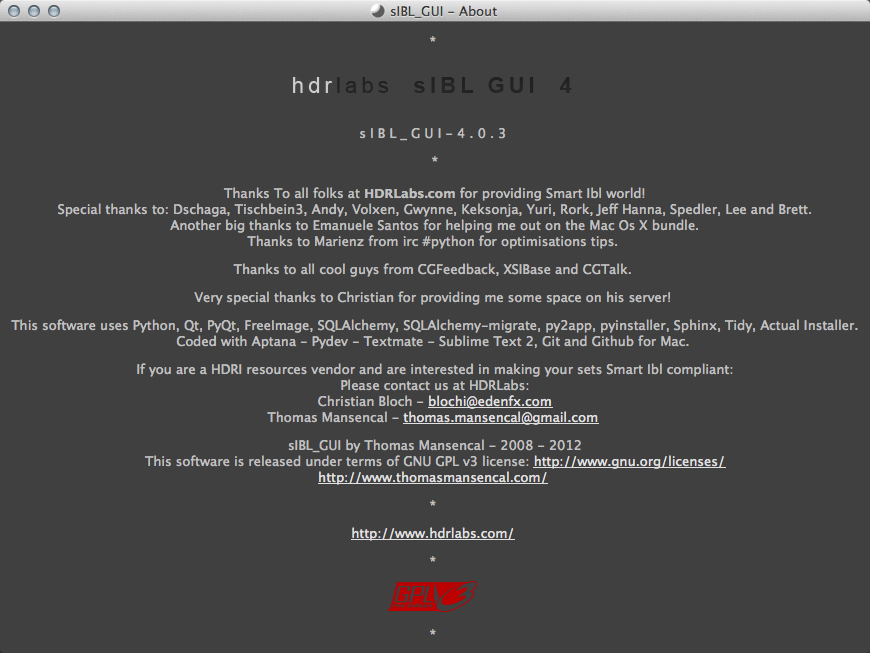
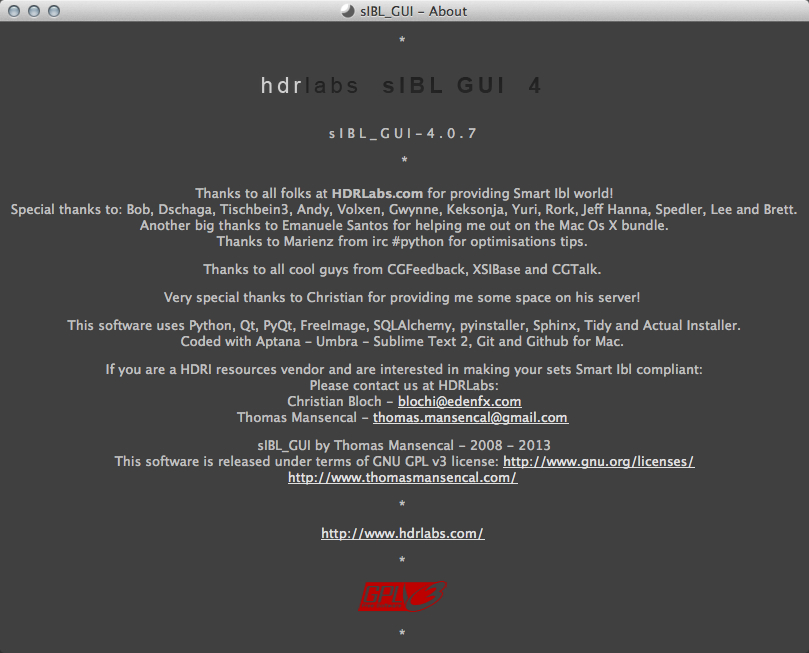
Update "about" component.

diff --git a/sibl_gui/components/addons/about/about.py b/sibl_gui/components/addons/about/about.py
@@ -59,9 +59,9 @@ ABOUT_MESSAGE = """
 s I B L _ G U I - {1}
 </p>
 *
-<br/><br/>Thanks To all folks at <b>HDRLabs.com</b> for providing Smart Ibl world!
+<br/><br/>Thanks to all folks at <b>HDRLabs.com</b> for providing Smart Ibl world!
 <br/>
-Special thanks to: Dschaga, Tischbein3, Andy, Volxen, Gwynne, Keksonja, Yuri, Rork, Jeff Hanna, Spedler,
+Special thanks to: Bob, Dschaga, Tischbein3, Andy, Volxen, Gwynne, Keksonja, Yuri, Rork, Jeff Hanna, Spedler,
 Lee and Brett.
 <br/>
 Another big thanks to Emanuele Santos for helping me out on the Mac Os X bundle.
@@ -74,10 +74,10 @@ Thanks to all cool guys from CGFeedback, XSIBase and CGTalk.
 Very special thanks to Christian for providing me some space on his server!
 </p>
 <p>
-This software uses Python, Qt, PyQt, FreeImage, SQLAlchemy, SQLAlchemy-migrate, py2app, pyinstaller, Sphinx, Tidy, \
+This software uses Python, Qt, PyQt, FreeImage, SQLAlchemy, pyinstaller, Sphinx, Tidy and
 Actual Installer.
 <br/>
-Coded with Aptana - Pydev - Textmate - Sublime Text 2, Git and Github for Mac.
+Coded with Aptana - Umbra - Sublime Text 2, Git and Github for Mac.
 </p>
 <p>
 If you are a HDRI resources vendor and are interested in making your sets Smart Ibl compliant:
